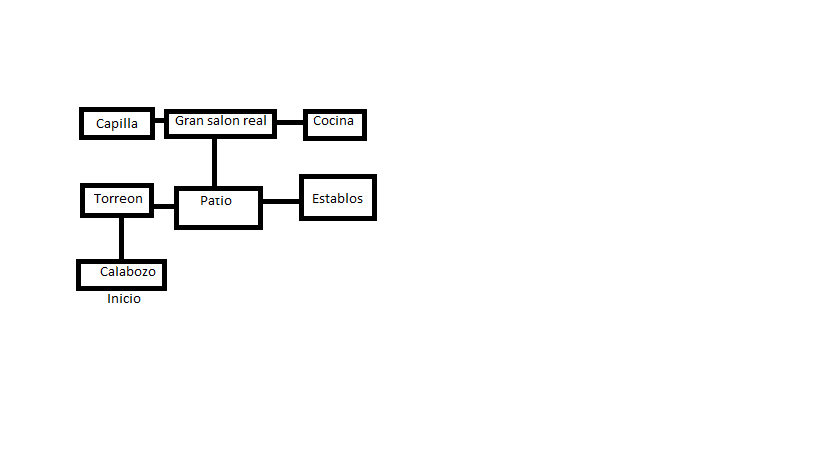
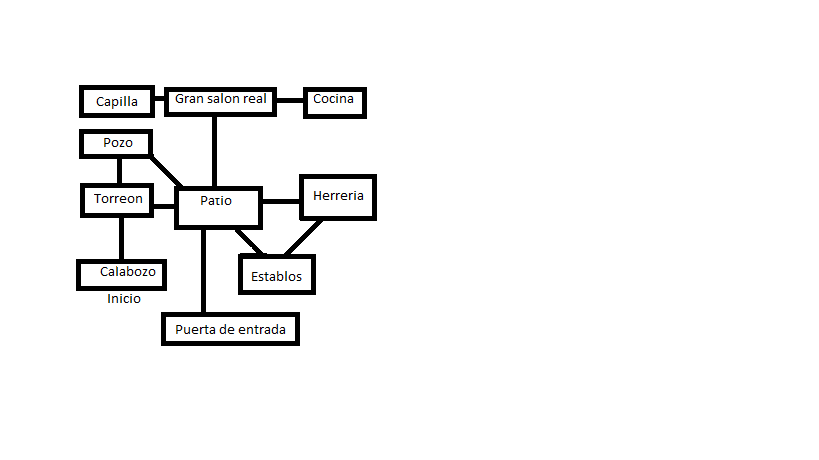
04. Modificaciones realizadas para que tenga salidas en diagonal

diff --git a/Game.java b/Game.java
@@ -34,7 +34,7 @@ public class Game
      */
     private void createRooms()
     {
-        Room calabozo, torreon, patio, establos, granSalonReal, capilla, cocina;
+        Room calabozo, torreon, patio, establos, granSalonReal, capilla, cocina, pozo, herreria, puertaDeEntrada;
 
         // create the rooms
         calabozo = new Room("el calabozo");
@@ -44,17 +44,23 @@ public class Game
         granSalonReal = new Room("el gran salon real");
         capilla = new Room("la capilla");
         cocina = new Room("la cocina");
+        pozo = new Room("el pozo");
+        herreria = new Room("la herreria");
+        puertaDeEntrada = new Room("la puerta de entrada");
 
         // initialise room exits
-        calabozo.setExits(torreon, null, null, null);
-        torreon.setExits(null, patio, calabozo, null);
-        patio.setExits(granSalonReal, establos, null, torreon);
-        establos.setExits(null, null, null, patio);
-        granSalonReal.setExits(null, cocina, patio, capilla);
-        capilla.setExits(null, granSalonReal, null, null);
-        cocina.setExits(null, null, null, capilla);
-
-        currentRoom = calabozo;  // start game outside
+        calabozo.setExits(torreon, null, null, null, null, null, null, null);
+        torreon.setExits(pozo, patio, calabozo, null, null, null, null, null);
+        patio.setExits(granSalonReal, herreria, puertaDeEntrada, torreon, null, null, null, pozo);
+        establos.setExits(null, null, null, null, null, null, null, patio);
+        granSalonReal.setExits(null, cocina, patio, capilla, null, null, null, null);
+        capilla.setExits(null, granSalonReal, null, null, null, null, null, null);
+        cocina.setExits(null, null, null, capilla, null, null, null, null);
+        pozo.setExits(null, null, torreon, null, null, null, null, null);
+        herreria.setExits(null, null, null, patio, null, null, establos, null);
+        puertaDeEntrada.setExits(patio, null, null, null, null, null, null, null);
+        
+        currentRoom = calabozo;  // start game calabozo
     }
 
     /**
@@ -160,7 +166,19 @@ public class Game
         if(direction.equals("west")) {
             nextRoom = currentRoom.westExit;
         }
-
+        if(direction.equals("northeast")) {
+            nextRoom = currentRoom.westExit;
+        }
+        if(direction.equals("southeast")) {
+            nextRoom = currentRoom.westExit;
+        }
+        if(direction.equals("southwest")) {
+            nextRoom = currentRoom.westExit;
+        }
+        if(direction.equals("northwest")) {
+            nextRoom = currentRoom.westExit;
+        }
+        
         if (nextRoom == null) {
             System.out.println("There is no door!");
         }
@@ -203,6 +221,18 @@ public class Game
         }
         if(currentRoom.westExit != null) {
             System.out.print("west ");
+        }
+        if(currentRoom.northEastExit != null) {
+            System.out.print("northeast ");
+        }
+        if(currentRoom.southEastExit != null) {
+            System.out.print("southeast ");
+        }
+        if(currentRoom.southWestExit != null) {
+            System.out.print("southwest ");
+        }
+        if(currentRoom.northWestExit != null) {
+            System.out.print("northwest ");
         }
         System.out.println();
     }

diff --git a/Room.java b/Room.java
@@ -19,6 +19,10 @@ public class Room
     public Room southExit;
     public Room eastExit;
     public Room westExit;
+    public Room northEastExit;
+    public Room southEastExit;
+    public Room southWestExit;
+    public Room northWestExit;
 
     /**
      * Create a room described "description". Initially, it has
@@ -39,7 +43,7 @@ public class Room
      * @param south The south exit.
      * @param west The west exit.
      */
-    public void setExits(Room north, Room east, Room south, Room west) 
+    public void setExits(Room north, Room east, Room south, Room west, Room northEast, Room southEast, Room southWest, Room northWest) 
     {
         if(north != null)
             northExit = north;
@@ -49,6 +53,14 @@ public class Room
             southExit = south;
         if(west != null)
             westExit = west;
+        if(northEast != null)
+            northEastExit = northEast;
+        if(southEast != null)
+            southEastExit = southEast;
+        if(southWest != null)
+            southWestExit = southWest;
+        if(northWest != null)
+            northWestExit = northWest;
     }
 
     /**
